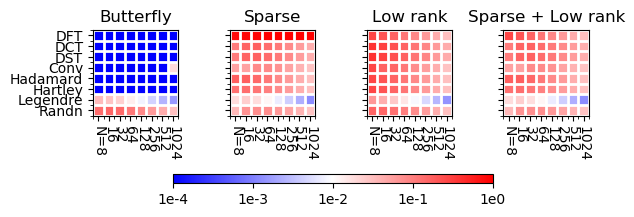
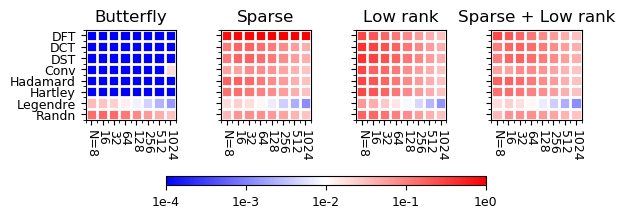
Update heatmap

diff --git a/heatmap.py b/heatmap.py
@@ -62,10 +62,10 @@ for rmse, ax, title in zip(rmses, axes.flat, titles):
     ax.set_yticks(range(8));
 
     # Labels for major ticks
-    ax.set_xticklabels(['N=8', '16', '32', '64', '128', '256', '512', '1024'], rotation=270);
+    ax.set_xticklabels(['N=8', '16', '32', '64', '128', '256', '512', '1024'], rotation=270, fontsize=9);
     if first:
         # ax.set_yticklabels(['DFT', 'DCT', 'DST', 'Conv', 'Hadamard', 'Hartley', 'Legendre', 'Hilbert', 'Randn']);
-        ax.set_yticklabels(['DFT', 'DCT', 'DST', 'Conv', 'Hadamard', 'Hartley', 'Legendre', 'Randn']);
+        ax.set_yticklabels(['DFT', 'DCT', 'DST', 'Conv', 'Hadamard', 'Hartley', 'Legendre', 'Randn'], fontsize=9);
         first = False
     else:
         ax.set_yticklabels([]);
@@ -100,9 +100,9 @@ for rmse, ax, title in zip(rmses, axes.flat, titles):
 # ax.grid(which='minor', color='w', linestyle='-', linewidth=2)
 
 # cbar = plt.colorbar(orientation='horizontal', ticks=[-4, -3, -2, -1, 0])
-fig.subplots_adjust(bottom=-0.2, wspace=0.6)
+fig.subplots_adjust(bottom=-0.2, wspace=0.5)
 cbar_ax = fig.add_axes([0.25, 0.11, 0.5, 0.02])
 cbar = fig.colorbar(im, cax=cbar_ax, orientation='horizontal', ticks=[-4, -3, -2, -1, 0])
-cbar.ax.set_xticklabels(['1e-4', '1e-3', '1e-2', '1e-1', '1e0'])
+cbar.ax.set_xticklabels(['1e-4', '1e-3', '1e-2', '1e-1', '1e0'], fontsize=9)
 
 plt.savefig('heatmap.png', bbox_inches='tight')
